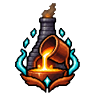
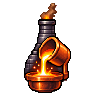
arte: refaz icone el-industrial pela regra de identidade v2 (forja e cadinho, sem cristal turquesa)

diff --git a/docs/ASSETS-A-GERAR.md b/docs/ASSETS-A-GERAR.md
@@ -590,7 +590,7 @@ O class-system passou de 17 para **20 bases** (Class-System `56546d9`, branch
 `feat/elementos-fada-industrial-planta`): +54 pares e 3 triplas curadas novas
 (**Pestilência** = planta+morte+vileza · **Maldição** = fada+sombra+vileza ·
 
-> **Atualização 10/11/2026 (regra de identidade v2):** FX de ataque (6 estados + aura-96) de `maldicao`, `fada`, `industrial` e `planta` e o ícone `el-maldicao` foram **refeitos e instalados** (arte em `E:Soulmon-assetsidentidade-refazer`). `el-industrial` segue pendente (refazendo).
+> **Atualização 10/11/2026 (regra de identidade v2):** FX de ataque (6 estados + aura-96) de `maldicao`, `fada`, `industrial` e `planta` e o ícone `el-maldicao` foram **refeitos e instalados** (arte em `E:Soulmon-assetsidentidade-refazer`). `el-industrial` também refeito e instalado (10/11/2026, fundo removido pelo editor do ChatGPT; alfa real verificado).
 **Cyber** = industrial+eletricidade+arcano). Nada abaixo foi gerado: **fila para quando
 houver créditos Higgsfield**. Regras de prompt: `PROMPTS-BETA3.md` §1 (receita de 23/09,
 transparência real, nada de steampunk — Industrial é *fábrica arcana*: pedra, cobre e
